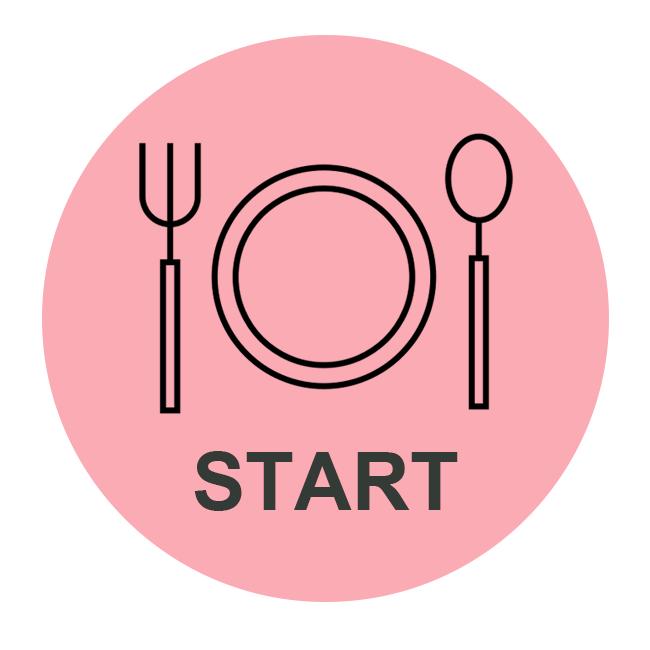
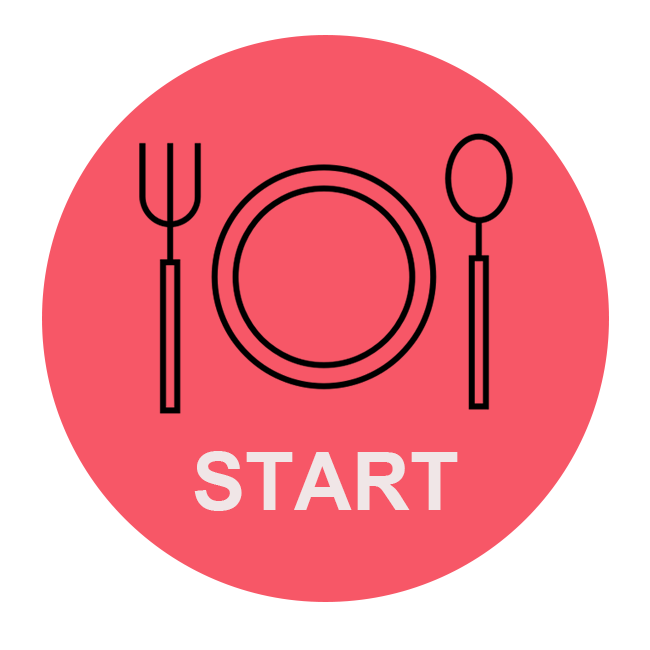
start_button fix

diff --git a/public/register_chef_HNH.html b/public/register_chef_HNH.html
@@ -269,10 +269,10 @@
                     <div class="row">
                         <!-- Store Search -->
                         <div class="col-lg-12 col-md-12">
-                            <div class="block d-flex align-items-end flex-column">
+                            <div class="block  align-items-end flex-column">
                                 <!-- Start Button -->
                                 <div class="scrollbtn">
-                                    <a href="#scroll1" class="btn btn-secondary" data-target="#scroll1">START</a>
+                                    <a href="#scroll1" data-target="#scroll1"><img src="./img/register_chef/small_start_button.png" style="width: 180px;height:180px"></a>
                                 </div>
                             </div>
                         </div>
@@ -374,7 +374,7 @@
 
         <div class="row  text-center">
             <div class="col-12">
-                <a href="store-single.html" class="btn btn-main mt-30">인증하기</a>
+                <a href="store-single.html" class="btn btn-main mt-30" style="background-color:#80c269">인증하기</a>
             </div>
         </div>
     </div>
@@ -532,7 +532,7 @@
 
     <div class="row text-center">
         <div class="col-12">
-            <a href="store-single.html" class="btn btn-main mt-30">REGISTER</a>
+            <a href="store-single.html" class="btn btn-main mt-30" style="background-color:#22ac38">REGISTER</a>
         </div>
     </div>
 

diff --git a/public/register_complete.html b/public/register_complete.html
@@ -252,7 +252,7 @@
                         <!-- Store Search -->
                         <div class="col-lg-12 col-md-12">
                                 <!-- Start Button -->
-                            <input type="image" src="./img/register_chef/start_button.png" style="width:300px;height:300px">
+                            <input type="image" src="./img/register_chef/small_start_button.png" style="width: 200px;height:200px">
                         </div>
                     </div>
                 </form>
